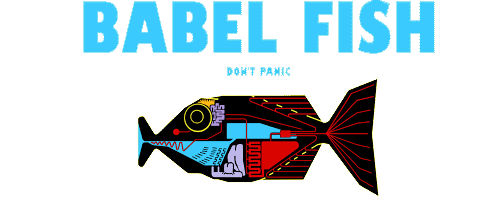
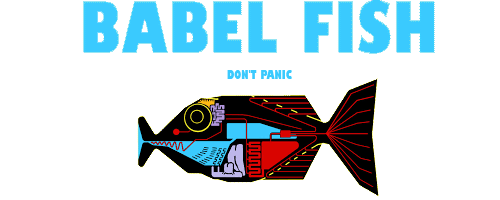
added styling/functionality

Changed region(s): [[0.45, 0.33, 0.6, 0.42]]

diff --git a/client/src/components/Drawer/index.js b/client/src/components/Drawer/index.js
@@ -1,6 +1,6 @@
 import * as React from "react";
 import { Link } from "react-router-dom";
-import { styled, createTheme } from "@mui/material/styles";
+import { styled, useTheme } from "@mui/material/styles";
 import Box from "@mui/material/Box";
 import Drawer from "@mui/material/Drawer";
 import CssBaseline from "@mui/material/CssBaseline";
@@ -22,12 +22,15 @@ import ChatBubbleOutlineIcon from "@mui/icons-material/ChatBubbleOutline";
 import TranslateIcon from "@mui/icons-material/Translate";
 import AccountBoxIcon from "@mui/icons-material/AccountBox";
 import SettingsIcon from "@mui/icons-material/Settings";
+import NewspaperIcon from "@mui/icons-material/Newspaper";
 import LogoutIcon from "@mui/icons-material/Logout";
 import AuthService from "../../utils/auth";
+import Logo2 from "../Logo/Logo2";
+import "./style.css";
 const drawerWidth = 240;
 
 const Main = styled("main", { shouldForwardProp: (prop) => prop !== "open" })(
-  (theme, { open }) => ({
+  ({ theme, open }) => ({
     flexGrow: 1,
     padding: theme.spacing(3),
     transition: theme.transitions.create("margin", {
@@ -62,7 +65,7 @@ const AppBar = styled(MuiAppBar, {
   }),
 }));
 
-const DrawerHeader = styled("div")((theme) => ({
+const DrawerHeader = styled("div")(({ theme }) => ({
   display: "flex",
   alignItems: "center",
   padding: theme.spacing(0, 1),
@@ -72,22 +75,7 @@ const DrawerHeader = styled("div")((theme) => ({
 }));
 
 export default function PersistentDrawerLeft() {
-  const theme = createTheme({
-    palette: {
-      primary: {
-        light: "#8c0e14",
-        main: "#C9141D",
-        dark: "#d3434a",
-        contrastText: "#fff",
-      },
-      secondary: {
-        light: "#af7614",
-        main: "#FAA91D",
-        dark: "#fbba4a",
-        contrastText: "#000",
-      },
-    },
-  });
+  const theme = useTheme();
   const [open, setOpen] = React.useState(false);
 
   const handleDrawerOpen = () => {
@@ -96,11 +84,6 @@ export default function PersistentDrawerLeft() {
 
   const handleDrawerClose = () => {
     setOpen(false);
-  };
-
-  const logout = (event) => {
-    event.preventDefault();
-    AuthService.logout();
   };
 
   return (
@@ -118,7 +101,7 @@ export default function PersistentDrawerLeft() {
             <MenuIcon />
           </IconButton>
           <Typography variant="h6" noWrap component="div">
-            Babel Fish
+            <Logo2 />
           </Typography>
         </Toolbar>
       </AppBar>
@@ -149,17 +132,17 @@ export default function PersistentDrawerLeft() {
           {[
             {
               icon: <HomeIcon />,
-              text: "Home",
+              text: "HOME",
               action: "/",
             },
             {
               icon: <ChatBubbleOutlineIcon />,
-              text: "Start a Conversation",
+              text: "START A CONVERSATION",
               action: "/chat",
             },
             {
               icon: <TranslateIcon />,
-              text: "Make a Translation",
+              text: "MAKE A TRANSLATION",
               action: "/translate",
             },
           ].map(({ text, icon, action }) => (
@@ -177,12 +160,12 @@ export default function PersistentDrawerLeft() {
         <List className="links">
           {[
             {
-              text: "Account",
+              text: "ACCOUNT",
               icon: <AccountBoxIcon />,
               action: "/profile",
             },
             {
-              text: "Settings",
+              text: "SETTINGS",
               icon: <SettingsIcon />,
               action: "/settings",
             },
@@ -202,7 +185,7 @@ export default function PersistentDrawerLeft() {
                 <ListItemIcon>
                   <LogoutIcon />
                 </ListItemIcon>
-                <ListItemText primary="Logout" />
+                <ListItemText primary="LOGOUT" />
               </ListItemButton>
             </Link>
           </ListItem>

diff --git a/client/src/App.js b/client/src/App.js
@@ -6,14 +6,16 @@ import {
   InMemoryCache,
   // createHttpLink,
 } from "@apollo/client";
+import { createTheme, ThemeProvider, colors } from "@mui/material";
 // import { setContext } from '@apollo/client/link/context';
-// import Homepage from "./components/Homepage";
+import Homepage from "./components/Homepage";
 import LoginPage from "./components/Login/login";
 import Drawer from "./components/Drawer";
 import ProfilePage from "./components/Profile";
 import ChatApp from "./components/ChatApp";
 import NoMatch from "./pages/NoMatch";
 import Auth from "./utils/auth";
+import "@fontsource/black-han-sans";
 
 // const authLink = setContext((_, { headers }) => {
 //   const token = localStorage.getItem('id_token');
@@ -25,6 +27,26 @@ import Auth from "./utils/auth";
 //   };
 // });
 
+const theme = createTheme({
+  palette: {
+    primary: {
+      light: "#8c0e14",
+      main: "#C9141D",
+      dark: "#d3434a",
+      contrastText: "#fff",
+    },
+    secondary: {
+      light: "#af7614",
+      main: "#FAA91D",
+      dark: "#fbba4a",
+      contrastText: "#000",
+    },
+  },
+  typography: {
+    fontFamily: "Black Han sans",
+  },
+});
+
 const client = new ApolloClient({
   // link: authLink.concat(httpLink),
   uri: "http://localhost:3000/graphql",
@@ -34,21 +56,23 @@ const client = new ApolloClient({
 function App() {
   if (Auth.loggedIn()) {
     return (
-      <ApolloProvider client={client}>
-        <div>
-          <Router>
-            <Drawer />
-
-            <Routes>
-              {/* <Route path="/" element={<Homepage />} /> */}
-              <Route path="/chat" element={<ChatApp />} />
-              <Route path="/profile" element={<ProfilePage />} />
-              <Route path="*" element={<NoMatch />} />
-            </Routes>
-            <div className="App"></div>
-          </Router>
-        </div>
-      </ApolloProvider>
+      <ThemeProvider theme={theme}>
+        <ApolloProvider client={client}>
+          <div>
+            <Router>
+              <Drawer>
+                <Routes>
+                  <Route path="/" element={<Homepage />} />
+                  <Route path="/chat" element={<ChatApp />} />
+                  <Route path="/profile" element={<ProfilePage />} />
+                  <Route path="*" element={<NoMatch />} />
+                </Routes>
+                <div className="App"></div>
+              </Drawer>
+            </Router>
+          </div>
+        </ApolloProvider>
+      </ThemeProvider>
     );
   } else {
     return (

diff --git a/server/utils/translator.js b/server/utils/translator.js
@@ -4,12 +4,12 @@ const { Translate } = require('@google-cloud/translate').v2;
 require('dotenv').config();
 
 // parse env CREDENTIALS for authorization on Translate instantiation 
-const CREDENTIALS = JSON.parse(process.env.CREDENTIALS);
+// const CREDENTIALS = JSON.parse(process.env.CREDENTIALS);
 
 // instantiate a new Translate object
-const translate = new Translate({
-  credentials: CREDENTIALS,
-  projectId: CREDENTIALS.projectId});
+// const translate = new Translate({
+//   credentials: CREDENTIALS,
+//   projectId: CREDENTIALS.projectId});
 
 
 async function translator(text, target) {

diff --git a/client/src/components/Homepage/index.js b/client/src/components/Homepage/index.js
@@ -170,13 +170,7 @@ function Homepage() {
                 />
               </Grid>
               <Grid xs={1} align="right">
-<<<<<<< HEAD
-                <Fab color="primary" aria-label="add">
-                  <SendIcon />
-                </Fab>
-=======
                 <Fab color="primary" aria-label="add"></Fab>
->>>>>>> 853ad829ac03ac579b9b586245cc35b47dad9a91
               </Grid>
             </Grid>
           </Grid>

diff --git a/client/src/index.css b/client/src/index.css
@@ -1,8 +1,14 @@
 body {
   margin: 0;
-  font-family: -apple-system, BlinkMacSystemFont, "Black Han Sans", sans-serif;
+  font-family: "Black Han Sans", sans-serif;
   -webkit-font-smoothing: antialiased;
   -moz-osx-font-smoothing: grayscale;
+  text-decoration: none;
+}
+
+body a {
+  color: gray;
+  text-decoration: none;
 }
 
 code {

diff --git a/client/src/components/Logo/Logo2.js b/client/src/components/Logo/Logo2.js
@@ -1,0 +1,14 @@
+import React from "react";
+import babelfishnobg from "../../assets/images/babelfishnobg.png";
+
+function Logo2() {
+  return (
+      <img 
+      style={{width: "250px"}}
+      src={babelfishnobg} 
+      alt="The babelfish logo!" 
+      />
+  );
+}
+
+export default Logo2;

diff --git a/client/src/components/Login/login.js b/client/src/components/Login/login.js
@@ -58,7 +58,7 @@ const LoginPage = () => {
   };
 
   return (
-    <body>
+    <body className="body">
       <div className="loginPage">
         <Logo />
 

diff --git a/client/src/components/Login/login.css b/client/src/components/Login/login.css
@@ -1,4 +1,4 @@
-body {
+.body {
   margin: 0;
   padding: 0;
   display: flex;
